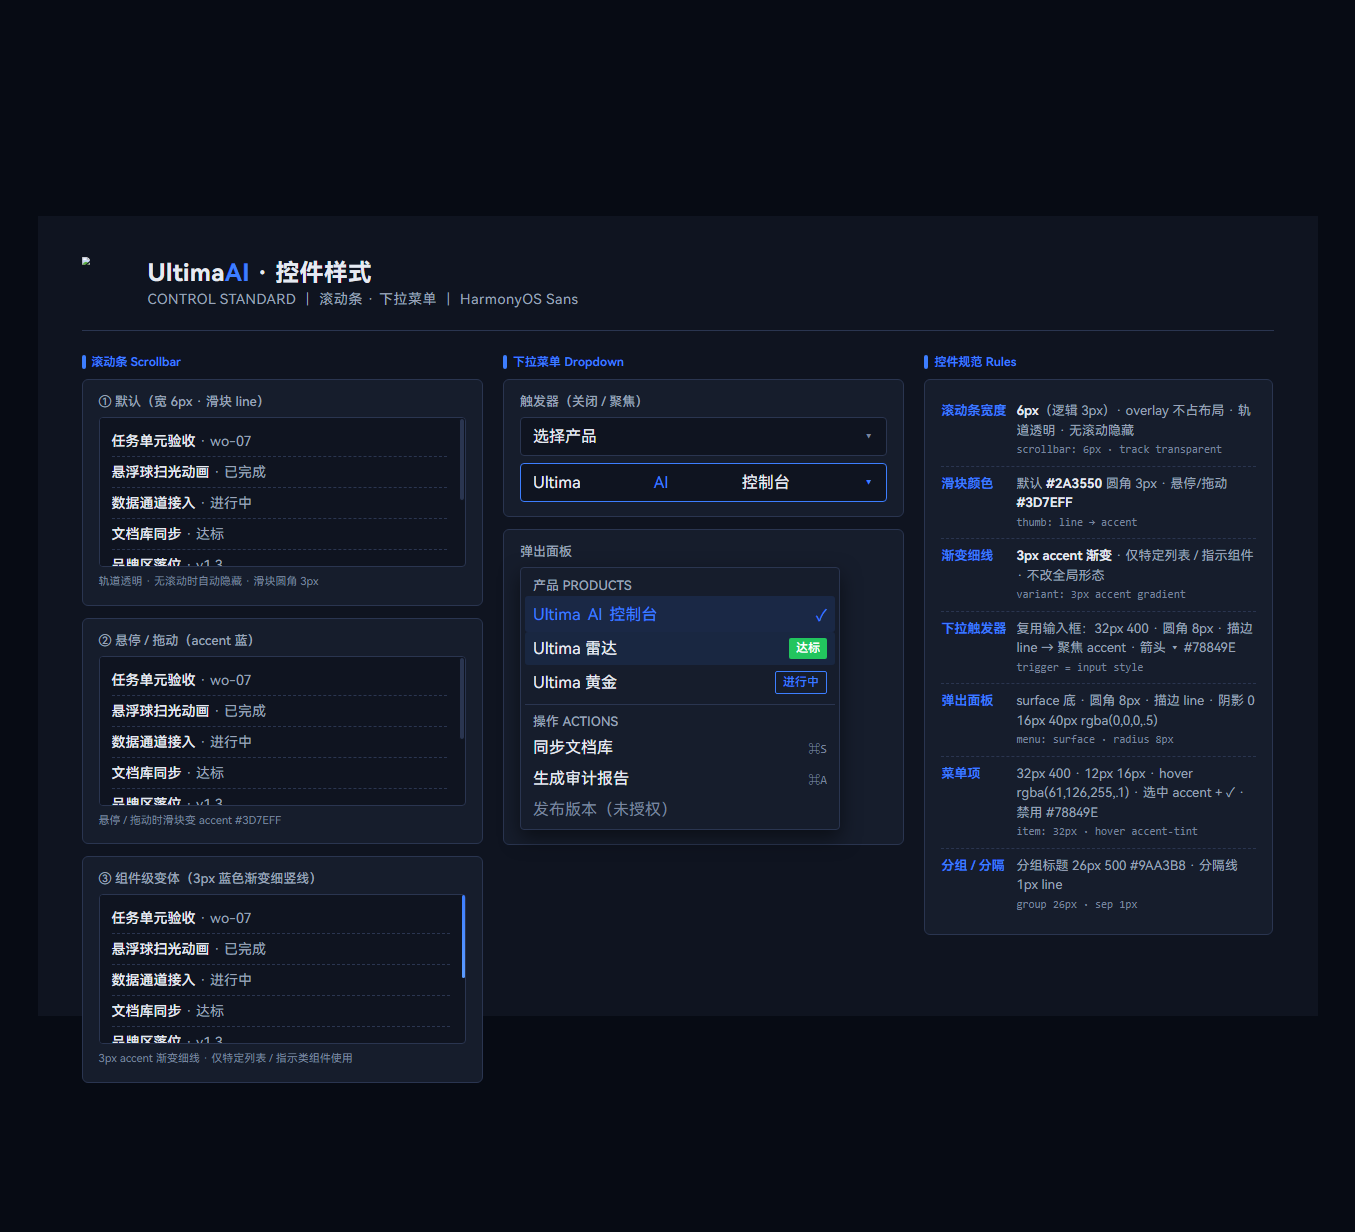
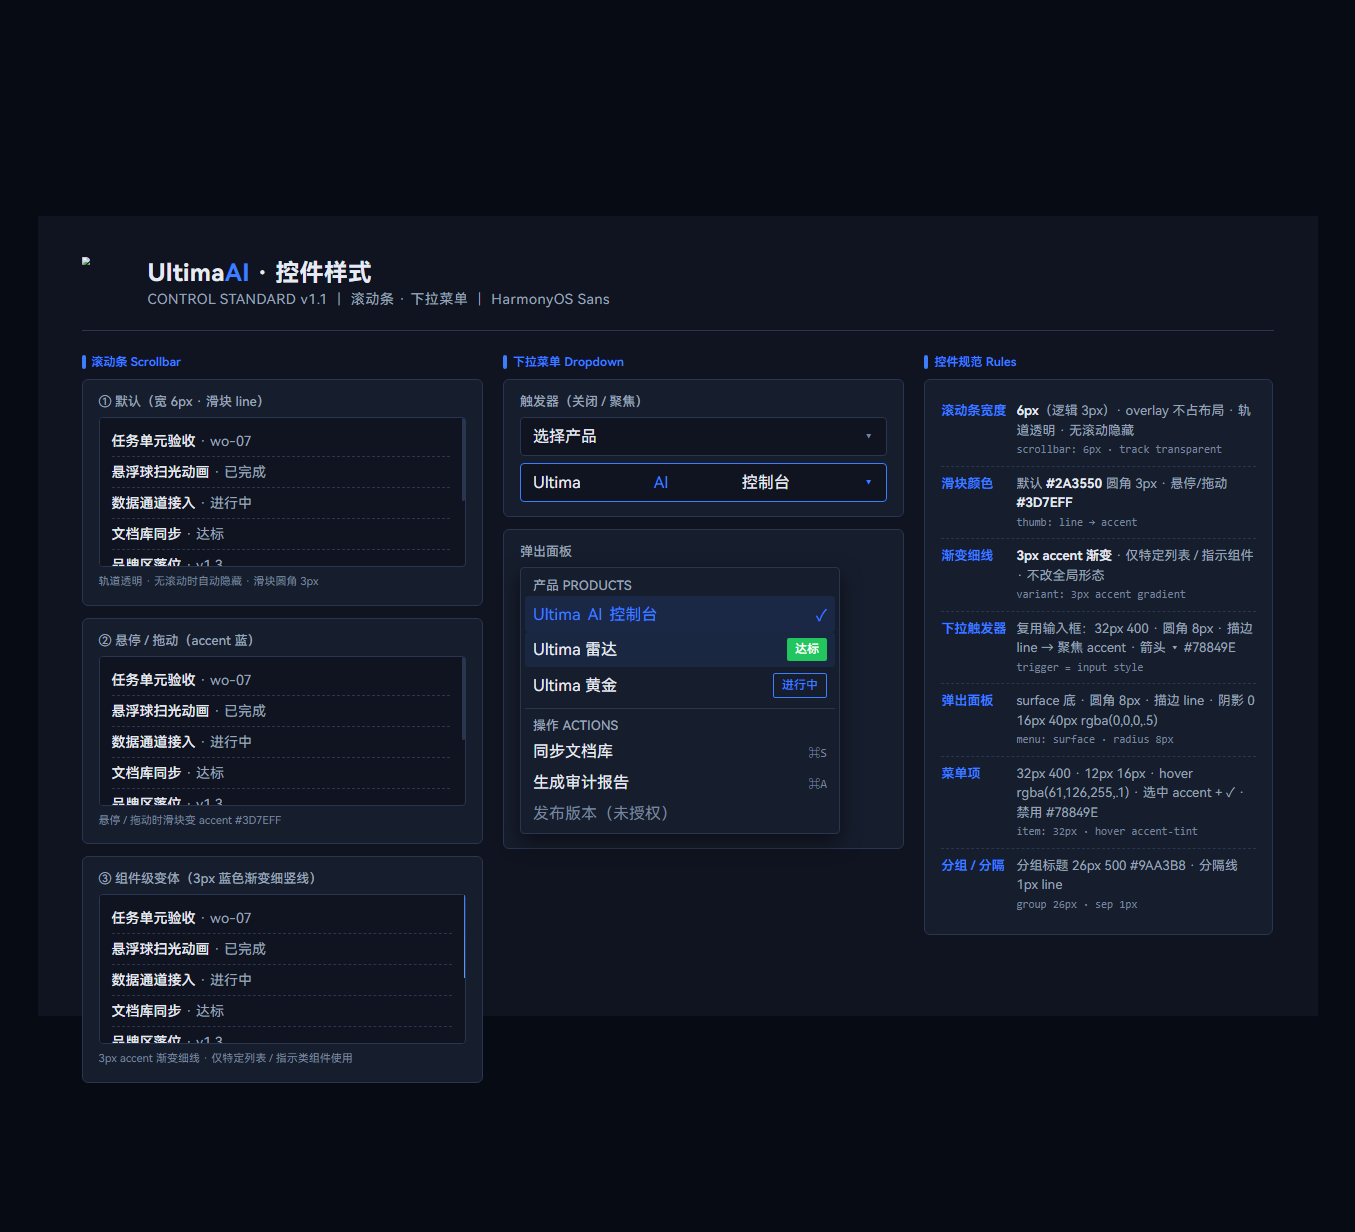
docs(shared): UI Style Paradigm - audit fix (26px scale/bg+surface swatches/tag gap 8px/placeholder 28px/buttons/scrollbar 6px+3px variant/pill padding/border widths) v1.1 renders

Changed region(s): [[0.372, 0.5244, 0.4959, 0.6786], [0.217, 0.2159, 0.4339, 0.2468], [0.5579, 0.5244, 0.6199, 0.586]]

diff --git a/docs/shared/paradigms/assets/ui-style/style.html b/docs/shared/paradigms/assets/ui-style/style.html
@@ -41,6 +41,7 @@
   .fs-48{font-size:48px;font-weight:600;line-height:1.15;}
   .fs-32{font-size:32px;line-height:1.3;}
   .fs-28{font-size:28px;line-height:1.35;}
+  .fs-26{font-size:26px;line-height:1.38;}
   .fs-24{font-size:24px;line-height:1.4;}
   .muted{color:#9AA3B8;}
   .note{color:#78849E;}
@@ -51,7 +52,7 @@
   .sw .nm{font-size:22px;color:#E6EAF2;}
   .sw .hex{font-family:Consolas,monospace;font-size:20px;color:#78849E;margin-top:4px;}
   /* 胶囊标签 */
-  .tags{display:flex;flex-wrap:wrap;gap:20px;align-items:center;}
+  .tags{display:flex;flex-wrap:wrap;gap:8px;align-items:center;}
   .cap{font-size:24px;font-weight:500;border-radius:4px;padding:6px 16px;line-height:1.4;}
   .cap.neutral{background:#1E2A3D;color:#E6EAF2;}
   .cap.line{background:transparent;border:2px solid var(--c,#3D7EFF);color:var(--c,#3D7EFF);}
@@ -74,7 +75,7 @@
     <div class="logo"><img src="../../ultima-logo/helmet.png"></div>
     <div>
       <div class="ttl">Ultima<span>AI</span> · UI 样式标准</div>
-      <div class="sub">UI STYLE STANDARD v1.0 ｜ 2560×1600 物理基准 ｜ HarmonyOS Sans</div>
+      <div class="sub">UI STYLE STANDARD v1.1 ｜ 2560×1600 物理基准 ｜ HarmonyOS Sans</div>
     </div>
   </div>
   <div class="grid">
@@ -95,6 +96,7 @@
         <div class="row"><span class="lab">48 卡片标题</span><span class="val fs-48">产品达标情况</span></div>
         <div class="row"><span class="lab">32 导航 / 正文</span><span class="val fs-32">任务队列 ｜ 文档库</span></div>
         <div class="row"><span class="lab">28 副标题</span><span class="val fs-28 muted">各产品运行状态与工程健康度总览</span></div>
+        <div class="row"><span class="lab">26 表单标签 / 表头</span><span class="val fs-26 muted">字段标签 · 表格表头</span></div>
         <div class="row"><span class="lab">24 注释 / 标签</span><span class="val fs-24 note">更新时间 10:30 · 数据来源 docs-repo</span></div>
       </div>
     </div>
@@ -102,6 +104,8 @@
     <div class="col">
       <h3>颜色 Color</h3>
       <div class="sec swatches">
+        <div class="sw"><div class="chip" style="background:#0F1420"></div><div><div class="nm">页面背景 bg</div><div class="hex">#0F1420</div></div></div>
+        <div class="sw"><div class="chip" style="background:#161D2C"></div><div><div class="nm">容器 surface</div><div class="hex">#161D2C</div></div></div>
         <div class="sw"><div class="chip" style="background:#E6EAF2"></div><div><div class="nm">主标题 text</div><div class="hex">#E6EAF2</div></div></div>
         <div class="sw"><div class="chip" style="background:#9AA3B8"></div><div><div class="nm">副标题 sub</div><div class="hex">#9AA3B8</div></div></div>
         <div class="sw"><div class="chip" style="background:#78849E"></div><div><div class="nm">注释 note</div><div class="hex">#78849E</div></div></div>
@@ -116,7 +120,7 @@
       <h3>胶囊标签 Tag / Badge</h3>
       <div class="sec">
         <div class="tags" style="margin-bottom:20px;">
-          <span class="cap neutral">已完成</span>
+          <span class="cap line" style="--c:#22C55E">已完成</span>
           <span class="cap line" style="--c:#22C55E">达标</span>
           <span class="cap line" style="--c:#F59E0B">待审批</span>
           <span class="cap line" style="--c:#E5484D">预警</span>
@@ -130,8 +134,15 @@
           <span class="cap badge">12</span>
           <span class="cap neutral" style="border:1px solid #2A3550;">v1.0.0</span>
         </div>
+        <div class="tags" style="margin-bottom:20px;gap:8px;">
+          <span class="cap neutral">开源</span>
+          <span class="cap line" style="--c:#F59E0B">待核</span>
+          <span class="cap neutral">持牌</span>
+          <span class="cap line" style="--c:#F59E0B">部分持牌</span>
+          <span class="cap badge">+2</span>
+        </div>
         <div style="font-size:22px;color:#78849E;line-height:1.7;">
-          规则：圆角 4px ｜ 字重 500 ｜ 内边距 6px 16px ｜ 状态=描边同色 ｜ 强调=填充 ｜ 角标=红底白字圆角 10px
+          多标签规则：属性在前·状态在后 ｜ 间距 8px ｜ 默认 ≤2 个 ｜ 超出折叠 +N ｜ 颜色按语义表独立取色
         </div>
       </div>
     </div>

diff --git a/docs/shared/paradigms/assets/ui-style/form.html b/docs/shared/paradigms/assets/ui-style/form.html
@@ -36,7 +36,7 @@
   .flabel .star{color:#E5484D;}
   .input{background:#0F1420;border:2px solid #2A3550;border-radius:8px;padding:18px 24px;font-size:32px;color:#E6EAF2;display:flex;align-items:center;gap:16px;}
   .input .icon{color:#78849E;font-size:28px;}
-  .input .ph{color:#78849E;}
+  .input .ph{color:#78849E;font-size:28px;}
   .input.focus{border-color:#3D7EFF;}
   .input .unit{color:#9AA3B8;font-size:28px;margin-left:auto;}
   .qty{display:flex;align-items:baseline;gap:16px;}
@@ -61,6 +61,11 @@
   .unit-demo .n{font-size:56px;font-weight:700;font-variant-numeric:tabular-nums;}
   .unit-demo .n small{font-size:28px;font-weight:600;color:#3D7EFF;margin-left:6px;}
   .unit-demo .cap{font-size:24px;}
+  .btns{display:flex;gap:20px;align-items:center;margin-top:12px;}
+  .btn{border-radius:8px;display:inline-flex;align-items:center;justify-content:center;color:#E6EAF2;font-weight:500;border:2px solid transparent;}
+  .btn.p{font-size:32px;font-weight:500;background:#3D7EFF;padding:16px 48px;}
+  .btn.s{font-size:28px;font-weight:500;background:#1E2A3D;padding:12px 36px;}
+  .btn.x{font-size:26px;font-weight:500;background:transparent;border-color:#2A3550;color:#9AA3B8;padding:10px 28px;}
 </style>
 </head>
 <body>
@@ -69,7 +74,7 @@
     <div class="logo"><img src="../../ultima-logo/helmet.png"></div>
     <div>
       <div class="ttl">Ultima<span>AI</span> · 表单样式</div>
-      <div class="sub">FORM STANDARD v1.0 ｜ 2560×1600 物理基准 ｜ HarmonyOS Sans</div>
+      <div class="sub">FORM STANDARD v1.1 ｜ 2560×1600 物理基准 ｜ HarmonyOS Sans</div>
     </div>
   </div>
   <div class="grid">
@@ -94,10 +99,22 @@
           </div>
         </div>
         <div class="frow">
+          <div class="flabel">备注 Note</div>
+          <div class="input"><span class="ph">请输入备注内容…</span></div>
+        </div>
+        <div class="frow">
           <div class="flabel">数量 Quantity</div>
           <div class="qty">
             <div class="num">1.2<small class="u">K</small></div>
             <span class="hint">= 1,200 条数据 · 阿拉伯数字等宽对齐</span>
+          </div>
+        </div>
+        <div class="frow">
+          <div class="flabel">按钮 Button</div>
+          <div class="btns">
+            <span class="btn p">保存</span>
+            <span class="btn s">取消</span>
+            <span class="btn x">更多</span>
           </div>
         </div>
       </div>
@@ -107,9 +124,10 @@
       <h3>表单规范 Rules</h3>
       <div class="sec">
         <div class="rule"><span class="k">字段标签</span><span class="v">中文字号 <b>26px</b>（13px 逻辑）· 字重 500 · 色 #9AA3B8 · 必填加红星 <b style="color:#E5484D">*</b><span class="m">label: font-size 26px · font-weight 500</span></span></div>
-        <div class="rule"><span class="k">输入框文字</span><span class="v">内容 <b>32px</b>（16px 逻辑）· 字重 400 · 色 #E6EAF2 · 占位符 #78849E<span class="m">input: font-size 32px · color #E6EAF2</span></span></div>
+        <div class="rule"><span class="k">输入框文字</span><span class="v">内容 <b>32px</b>（16px 逻辑）· 字重 400 · 色 #E6EAF2 · 占位符 <b>28px</b> #78849E<span class="m">input: font-size 32px · placeholder 28px</span></span></div>
         <div class="rule"><span class="k">时间/代码</span><span class="v">等宽 <b>Consolas</b> · 32px · 色 #E6EAF2 · 时区后缀 #9AA3B8<span class="m">time: font-family Consolas,monospace</span></span></div>
         <div class="rule"><span class="k">标签胶囊</span><span class="v">24px · 字重 500 · 圆角 4px · 选中=蓝描边+淡蓝底 · 中性=elevated 底<span class="m">tag: 24px · radius 4px</span></span></div>
+        <div class="rule"><span class="k">按钮</span><span class="v">主按钮 <b>32px 500</b> accent 填充 · 次要按钮 <b>28px 500</b> · 小按钮 <b>26px 500</b><span class="m">btn: 32/28/26 · weight 500</span></span></div>
         <div class="rule"><span class="k">数量数字</span><span class="v"><b>72px</b> · 字重 700 · <b>tabular-nums</b> 等宽对齐 · 计量单位 32px 字重 600<span class="m">number: 72px bold · tabular-nums</span></span></div>
       </div>
       <h3>计量单位 Unit</h3>

diff --git a/docs/shared/paradigms/assets/ui-style/controls.html b/docs/shared/paradigms/assets/ui-style/controls.html
@@ -33,12 +33,12 @@
   .sec-t{font-size:26px;font-weight:500;color:#9AA3B8;margin-bottom:16px;}
   /* 滚动条 */
   .scrollbox{position:relative;height:300px;overflow-y:auto;background:#0F1420;border:1px solid #2A3550;border-radius:8px;padding:16px 24px;}
-  .scrollbox::-webkit-scrollbar{width:12px;}
+  .scrollbox::-webkit-scrollbar{width:6px;}
   .scrollbox::-webkit-scrollbar-track{background:transparent;}
-  .scrollbox::-webkit-scrollbar-thumb{background:#2A3550;border-radius:6px;border:3px solid #0F1420;}
+  .scrollbox::-webkit-scrollbar-thumb{background:#2A3550;border-radius:3px;border:none;}
   .scrollbox.hover::-webkit-scrollbar-thumb:hover{background:#3D7EFF;}
-  .scrollbox.thin::-webkit-scrollbar{width:6px;}
-  .scrollbox.thin::-webkit-scrollbar-thumb{border:none;border-radius:3px;background:linear-gradient(180deg,#3D7EFF,#5B9BFF);}
+  .scrollbox.thin::-webkit-scrollbar{width:3px;}
+  .scrollbox.thin::-webkit-scrollbar-thumb{border:none;border-radius:1.5px;background:linear-gradient(180deg,#3D7EFF,#5B9BFF);}
   .item{padding:14px 0;border-bottom:1px dashed #2A3550;font-size:28px;color:#9AA3B8;}
   .item:last-child{border-bottom:none;}
   .item b{color:#E6EAF2;font-weight:500;}
@@ -57,7 +57,7 @@
   .mitem .cap{margin-left:auto;}
   .mitem.dis{color:#78849E;}
   .msep{height:1px;background:#2A3550;margin:8px 0;}
-  .cap{font-size:24px;font-weight:500;border-radius:4px;padding:4px 14px;line-height:1.4;}
+  .cap{font-size:24px;font-weight:500;border-radius:4px;padding:6px 16px;line-height:1.4;}
   .cap.fill{background:#22C55E;color:#fff;}
   .cap.line{border:2px solid #3D7EFF;color:#3D7EFF;}
   /* 规则 */
@@ -75,7 +75,7 @@
     <div class="logo"><img src="../../ultima-logo/helmet.png"></div>
     <div>
       <div class="ttl">Ultima<span>AI</span> · 控件样式</div>
-      <div class="sub">CONTROL STANDARD ｜ 滚动条 · 下拉菜单 ｜ HarmonyOS Sans</div>
+      <div class="sub">CONTROL STANDARD v1.1 ｜ 滚动条 · 下拉菜单 ｜ HarmonyOS Sans</div>
     </div>
   </div>
   <div class="grid">

diff --git a/docs/shared/paradigms/assets/ui-style/table.html b/docs/shared/paradigms/assets/ui-style/table.html
@@ -69,7 +69,7 @@
     <div class="logo"><img src="../../ultima-logo/helmet.png"></div>
     <div>
       <div class="ttl">Ultima<span>AI</span> · 表格样式</div>
-      <div class="sub">TABLE STANDARD v1.0 ｜ 2560×1600 物理基准 ｜ HarmonyOS Sans</div>
+      <div class="sub">TABLE STANDARD v1.1 ｜ 2560×1600 物理基准 ｜ HarmonyOS Sans</div>
     </div>
   </div>
   <div class="grid">

diff --git a/docs/shared/paradigms/Ultima-UI样式范式.md b/docs/shared/paradigms/Ultima-UI样式范式.md
@@ -58,10 +58,10 @@
 |---|---|
 | 基础 | 字号 **24px**（12px 逻辑）· 字重 **500** · 圆角 **4px** · 内边距 **6px 16px**（物理） |
 | 中性 | `--elevated` 底、无描边（版本号 / 已冻结 / 通用信息） |
-| 状态（描边） | **描边 + 同色文字**：达标绿 #22C55E / 待审批黄 #F59E0B / 预警红 #E5484D / 进行中蓝 #3D7EFF |
+| 状态（描边） | **描边 2px + 同色文字**：达标绿 #22C55E / 待审批黄 #F59E0B / 预警红 #E5484D / 进行中蓝 #3D7EFF |
 | 强调（填充） | 填充底色 + 白字：accent 蓝（Codex / 进行中强调）、ok 绿（已发布 / 完成） |
 | 引擎 | 蓝 #3D7EFF（Codex）、紫 #8B7CF6（DeepSeek），描边样式 |
-| 数字角标 | 红底白字 #E5484D · 圆角 **10px** · 字重 **600** · 用于未读数 / 待处理计数 |
+| 数字角标 | 红底白字 #E5484D · 圆角 **10px** · 字重 **600** · 内边距 **2px 12px** · 用于未读数 / 待处理计数 |
 
 方向语义（交易/变更类）：**买入 = 绿填充**、**卖出 = 红填充**（跟随色板语义，全局一致）。
 
@@ -146,7 +146,7 @@
 
 | 元素 | 规范 |
 |---|---|
-| 触发器 | 复用输入框样式：32px / 400 · #E6EAF2 · 圆角 8px · 描边 --line · 聚焦 --accent · 右侧箭头 ▾ #78849E |
+| 触发器 | 复用输入框样式：32px / 400 · #E6EAF2 · 圆角 8px · 描边 --line · 聚焦 --accent · 内边距 18px 24px · 右侧箭头 ▾ #78849E |
 | 弹出面板 | `--surface` 底 · 圆角 8px · 描边 --line · 阴影 `0 16px 40px rgba(0,0,0,.5)` · 内边距 8px |
 | 菜单项 | 32px / 400 · 内边距 12px 16px · hover 底 `rgba(61,126,255,.1)` 或 --elevated · 选中项 #3D7EFF + 勾选 ✓ |
 | 分组标题 | 26px / 500 · #9AA3B8 |
